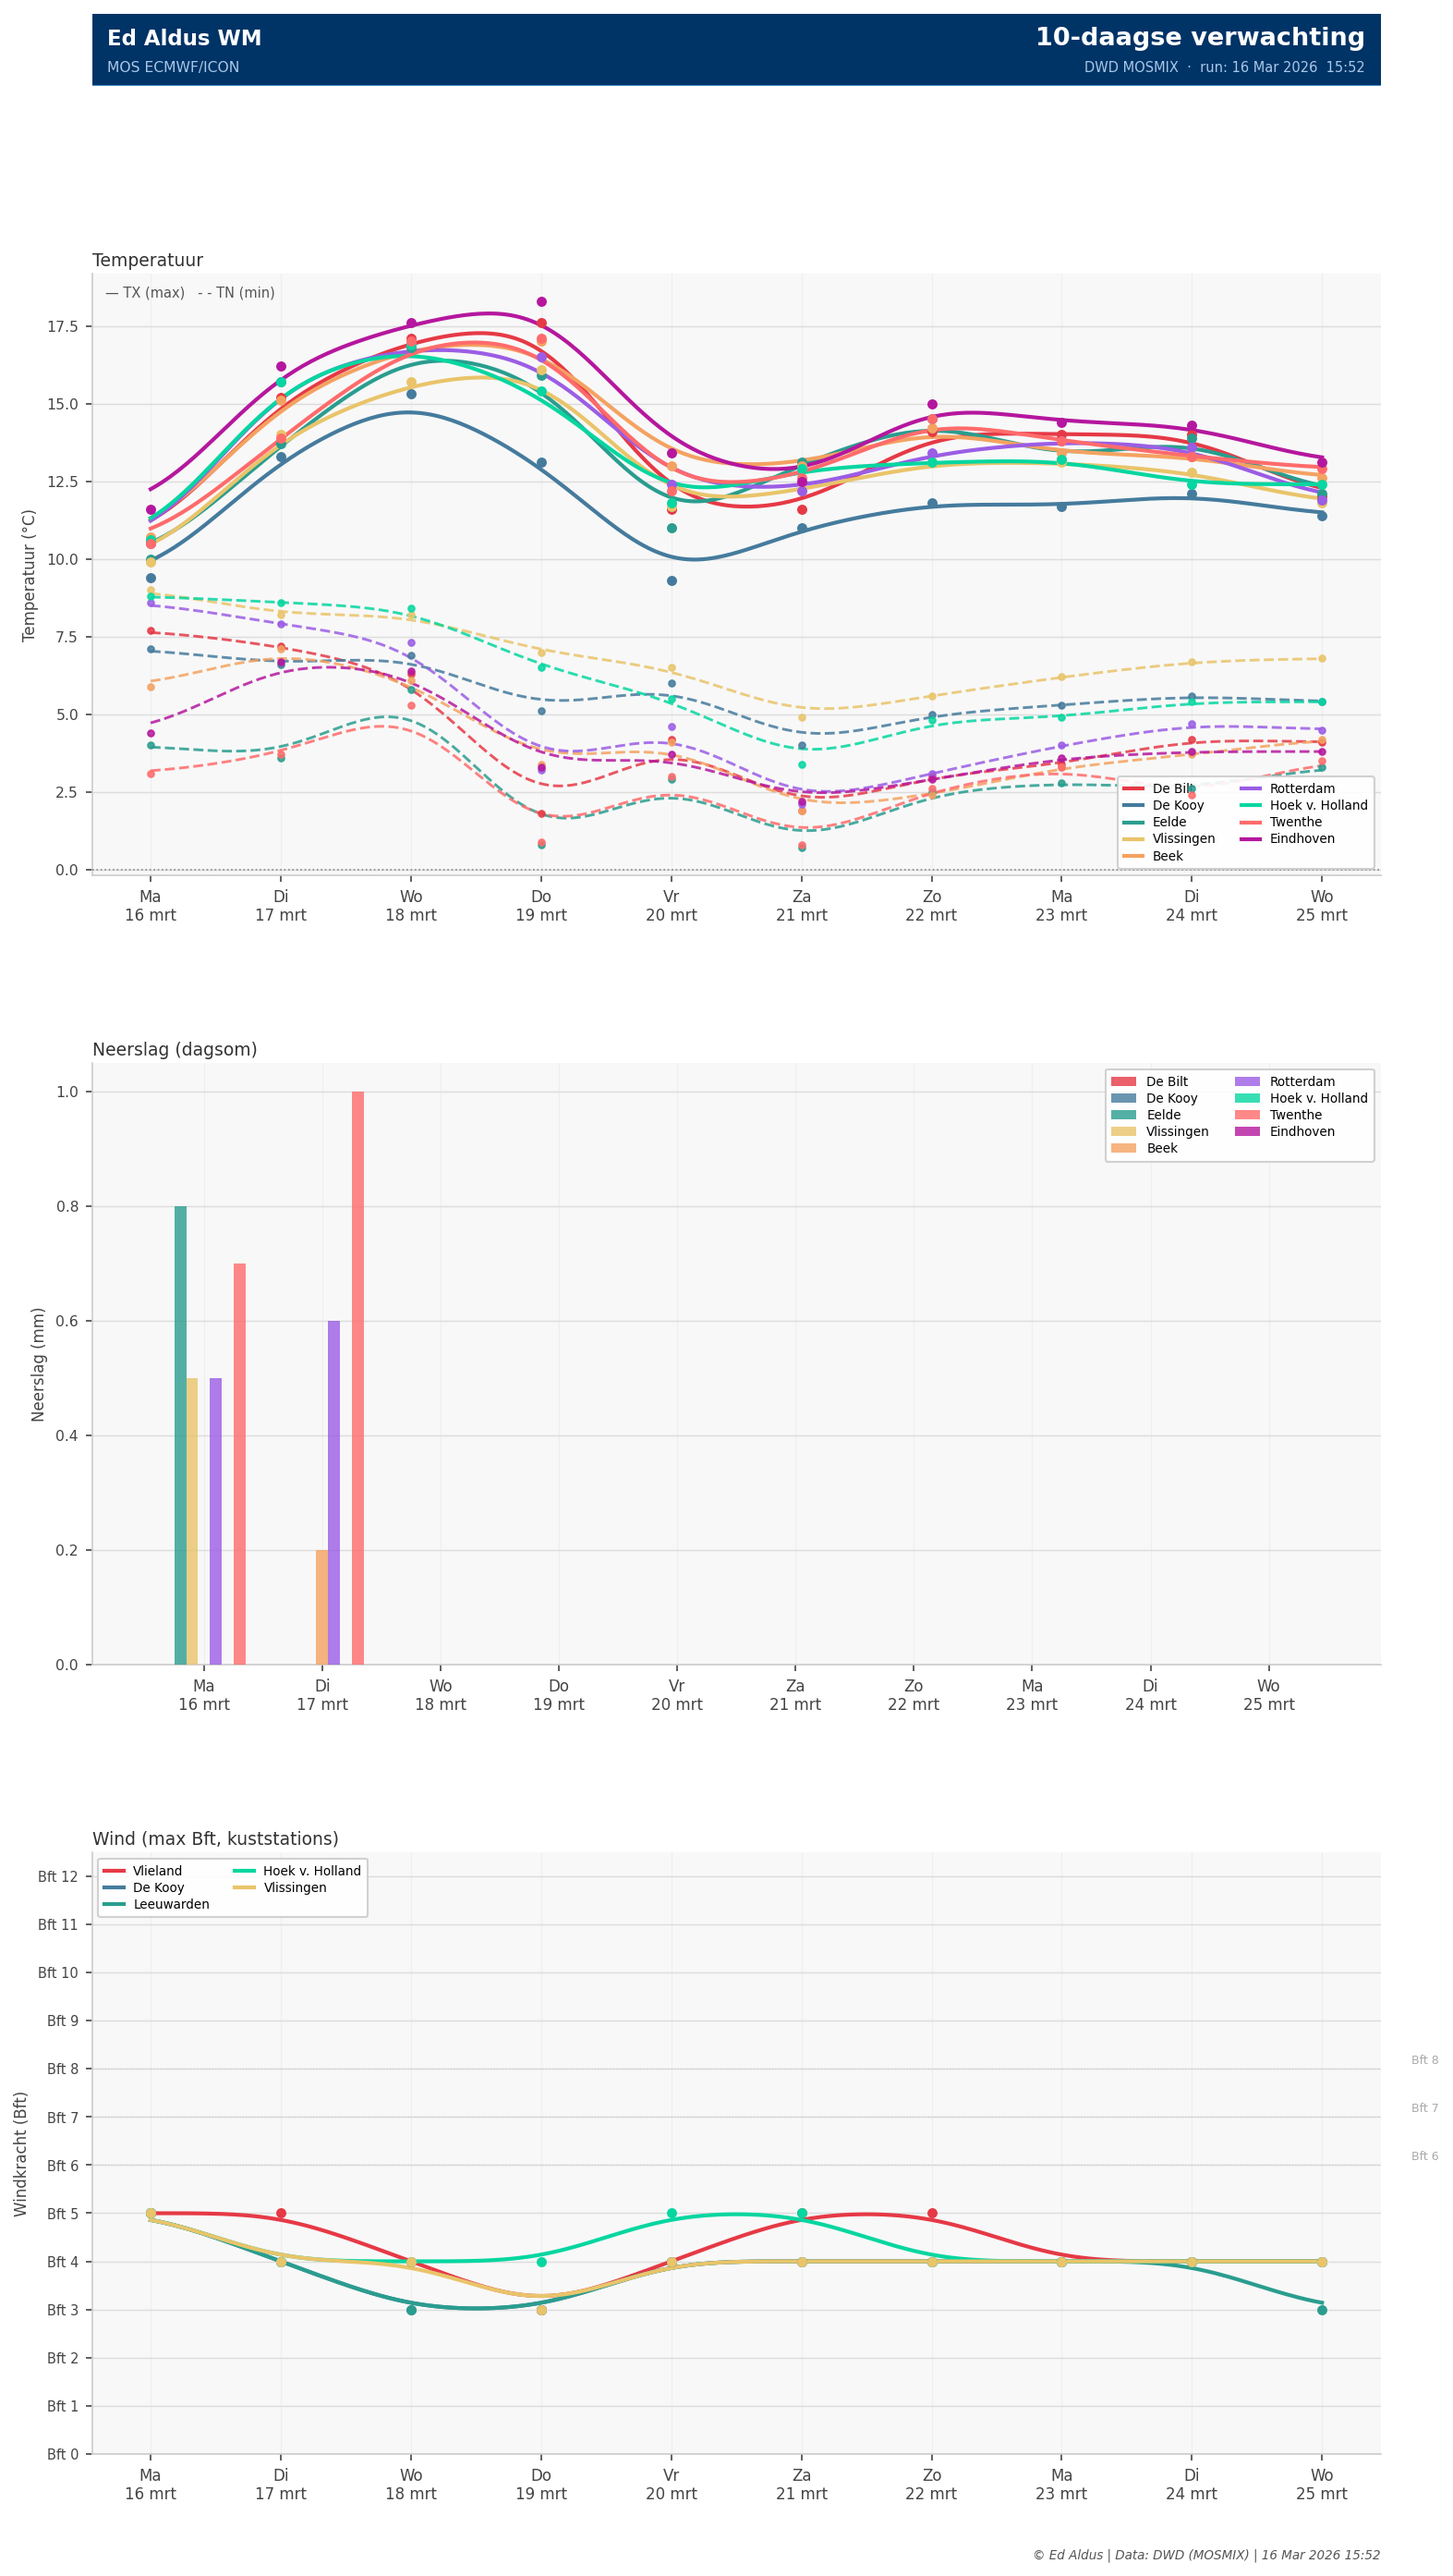
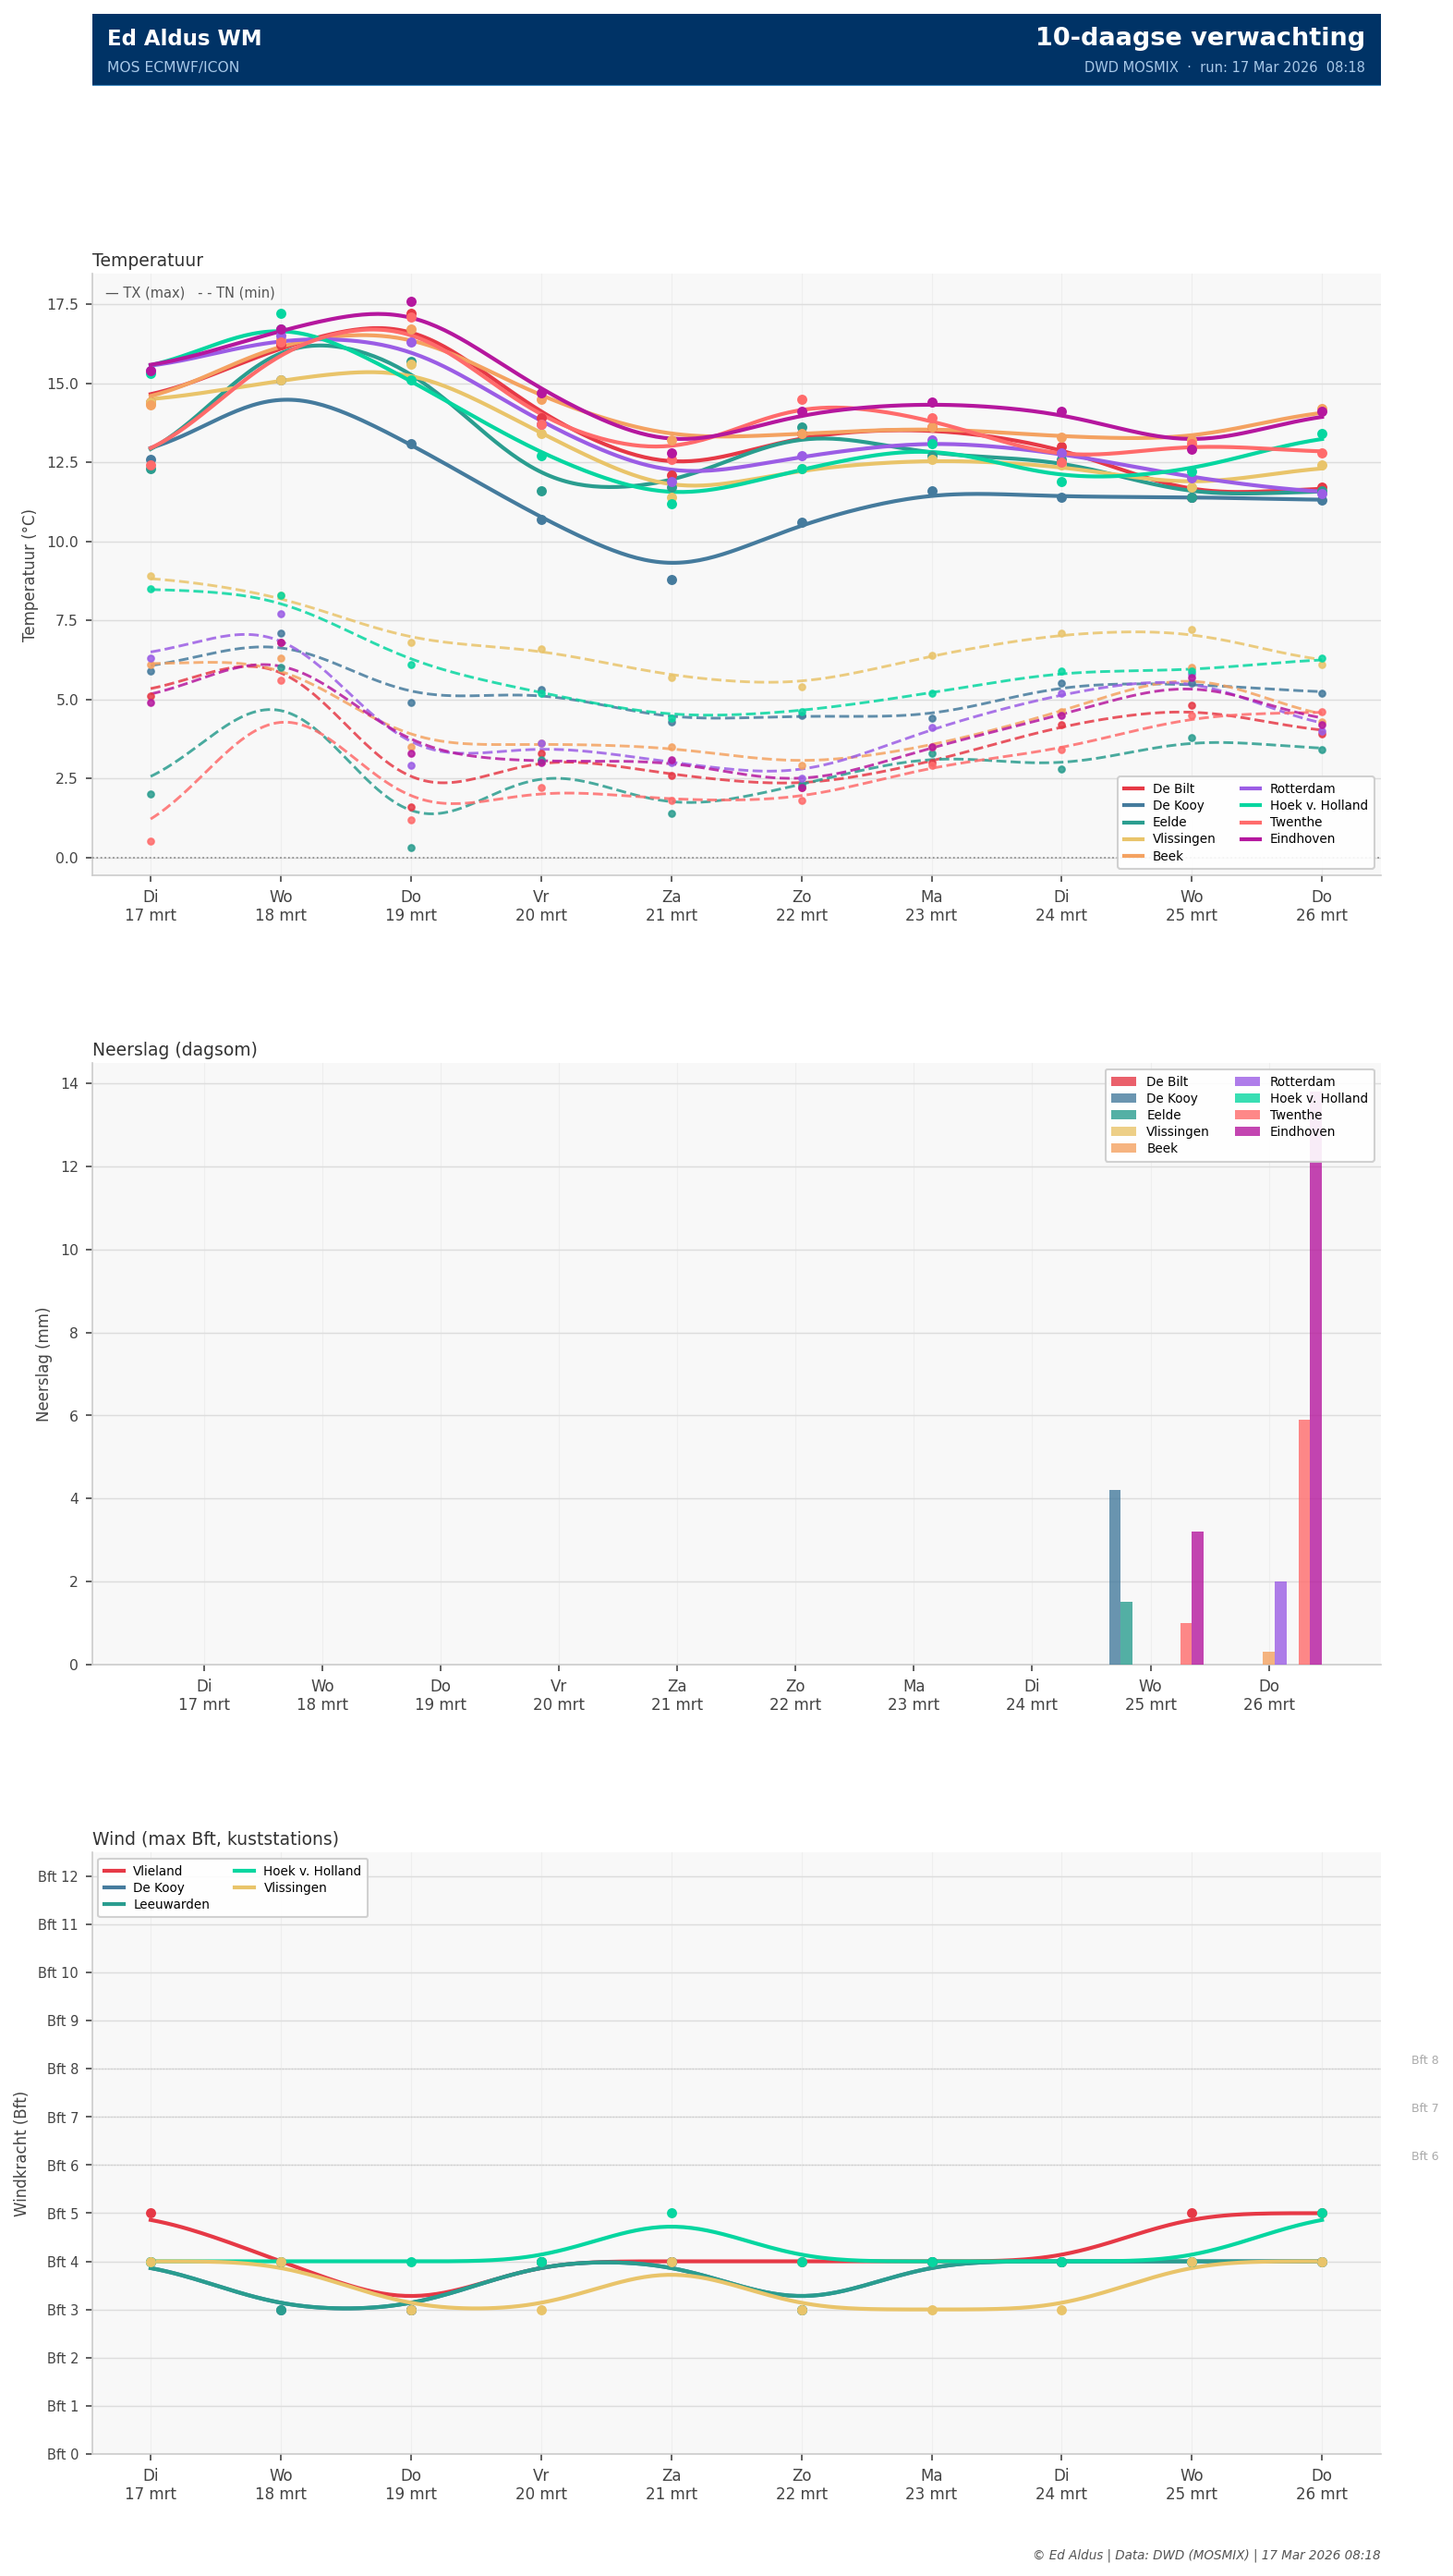
Trendgrafiek start vanaf vandaag

diff --git a/maak_grafiek.py b/maak_grafiek.py
@@ -177,7 +177,7 @@ for code, naam in stations_wind:
     wind_data[naam] = wd
 
 # Gemeenschappelijke dagen
-vandaag = datetime.now(ZoneInfo("Europe/Amsterdam")).date()
+vandaag = datetime.now(timezone.utc).astimezone(ZoneInfo("Europe/Amsterdam")).date()
 alle_dagen = [d for d in sorted(set(d for sd in temp_data.values() for d in sd.keys())) if d >= vandaag][:10]
 x = np.arange(len(alle_dagen))
 dag_labels = [f"{nl_dagen[d.weekday()]}\n{d.day} {nl_maanden[d.month]}" for d in alle_dagen]
